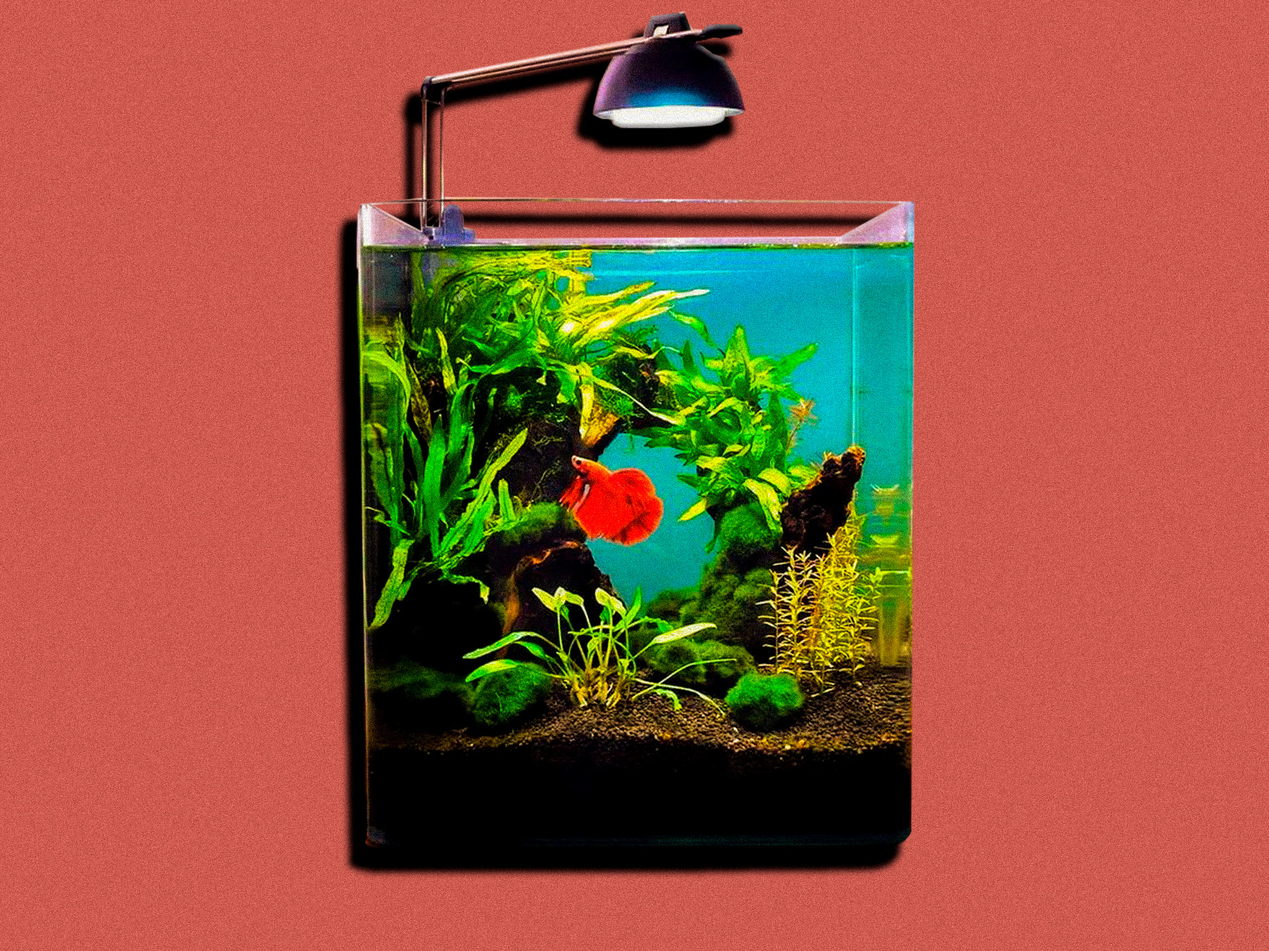
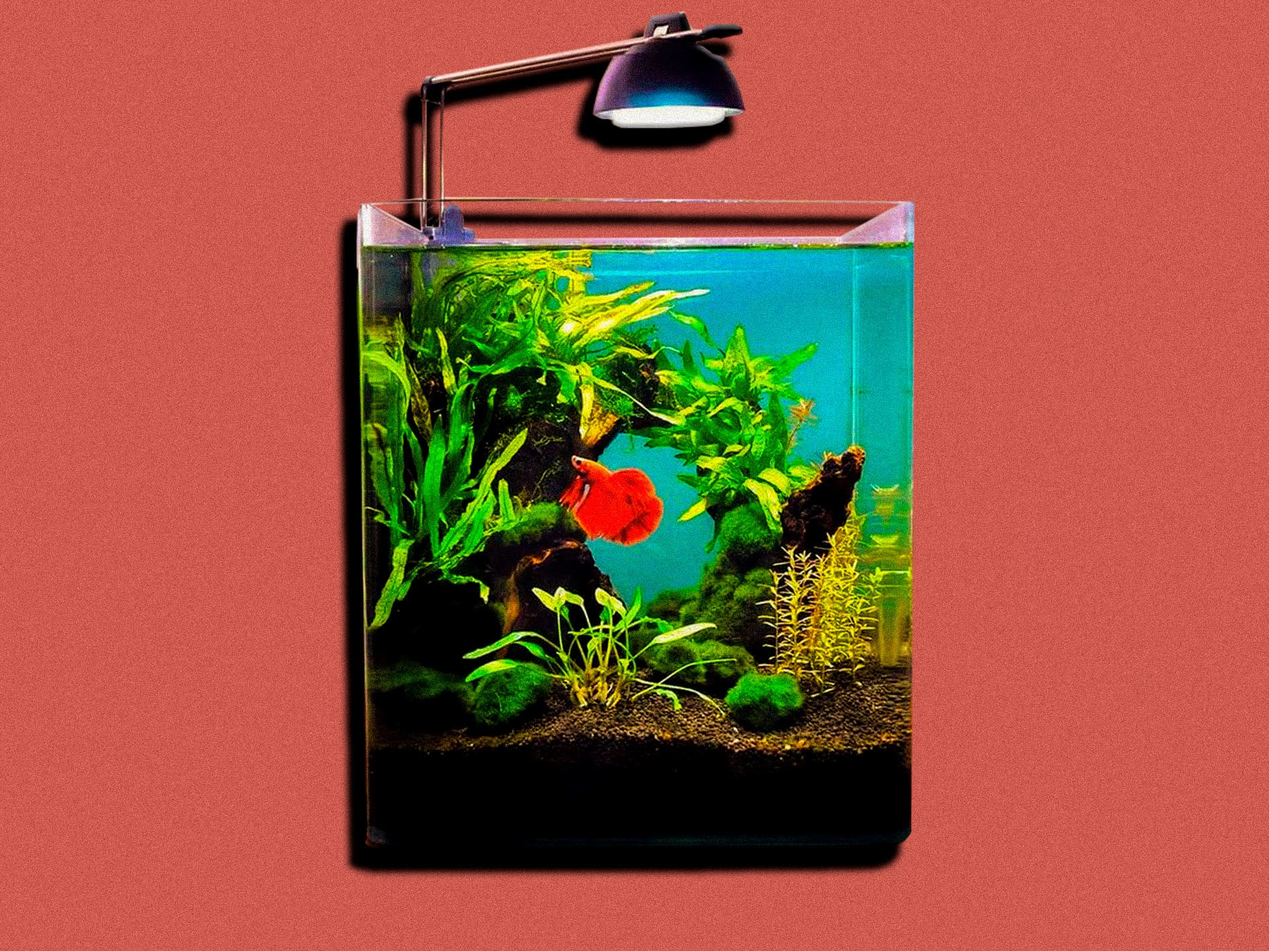
comprecion-final

diff --git a/pages/peces-de-agua-fria.html b/pages/peces-de-agua-fria.html
@@ -87,7 +87,7 @@
                 </h2>
 
                 <figure>
-                    <img src="../imagenes/pez-goldfish-wiki.jpg" alt="goldfish">
+                    <img src="../imagenes/pez-goldfish-wiki-otro-formato.webp" alt="goldfish">
                 </figure>
                
 
@@ -136,7 +136,7 @@
                 </h2>
 
                 <figure>
-                    <img src="../imagenes/carpa-koy-wiki.jpg" alt="carpa-koi">
+                    <img src="../imagenes/carpa-koy-wiki-otro-formato.webp" alt="carpa-koi">
                 </figure>
 
                 <p class="parametros">
@@ -174,7 +174,7 @@
                 </h2>
 
                 <figure>
-                    <img src="../imagenes/neon-chino-wiki.jpg" alt="neon-chino">
+                    <img src="../imagenes/neon-chino-wiki-otro-formato.webp" alt="neon-chino">
                 </figure>
 
                 <p class="parametros">
@@ -210,7 +210,7 @@
                 </h2>
 
                 <figure>
-                    <img src="../imagenes/plecostomus-wiki.jpg" alt="plecostomus">
+                    <img src="../imagenes/plecostomus-wiki-otro-formato.webp" alt="plecostomus">
                 </figure>
 
                 <p class="parametros">
@@ -246,7 +246,7 @@
                 </h2>
 
                 <figure>
-                    <img src="../imagenes/tetra-buenos-aires.jpg" alt="tetra-bunos-aires">
+                    <img src="../imagenes/tetra-buenos-aires-otro-formato.webp" alt="tetra-bunos-aires">
                 </figure>
 
                 <p class="parametros">
@@ -279,7 +279,7 @@
                 </h2>
 
                 <figure>
-                    <img src="../imagenes/pez-paraiso-wiki.jpg" alt="pez-paraiso">
+                    <img src="../imagenes/pez-paraiso-wiki-otro-formato.webp" alt="pez-paraiso">
                 </figure>
 
                 <p class="parametros">
@@ -311,7 +311,7 @@
                 </h2>
 
                 <figure>
-                    <img src="../imagenes/tiburon-chino-wiki.jpg" alt="tiburon-chino">
+                    <img src="../imagenes/tiburon-chino-wiki-otro-formato.webp" alt="tiburon-chino">
                 </figure>
 
                 

diff --git a/pages/acuarios.html b/pages/acuarios.html
@@ -70,7 +70,7 @@
                 </h2>
 
                 <figure>
-                    <img src="../imagenes/calentador-minimo.jpg" alt="calentador">
+                    <img src="../imagenes/calentador-minimo-otro-formato.webp" alt="calentador">
                 </figure>
 
                 <p class="calentador-acuario">
@@ -86,7 +86,7 @@
                 </h2>
 
                 <figure>
-                    <img src="../imagenes/filtro-acuarios.jpg" alt="filtro-acuarios">
+                    <img src="../imagenes/filtro-acuarios-otro-formato.webp" alt="filtro-acuarios">
                 </figure>
 
                 <p class="calentador-acuario">
@@ -105,7 +105,7 @@
 
 
             <figure>
-                <img src="../imagenes/acuario-malo.jpg" alt="acuario-malo">
+                <img src="../imagenes/acuario-malo-otro-formato.webp" alt="acuario-malo">
             </figure>
 
             <p class="acuarios-tipos">
@@ -125,7 +125,7 @@
 
 
             <figure>
-                <img src="../imagenes/acuario-lindo.jpg" alt="acuario-bueno">
+                <img src="../imagenes/acuario-lindo-otro-formato.webp" alt="acuario-bueno">
             </figure>
 
             <p class="acuarios-tipos">
@@ -146,7 +146,7 @@
 
 
             <figure>
-                <img src="../imagenes/acuario-holandes.jpg" alt="acuario-holandes">
+                <img src="../imagenes/acuario-holandes-otro-formato.webp" alt="acuario-holandes">
             </figure>
 
             <p class="acuarios-tipos">

diff --git a/pages/plantas.html b/pages/plantas.html
@@ -63,7 +63,7 @@
         <div class="plantas-acuario">
 
             <figure>
-                <img src="../imagenes/acuario-plantado.jpg" alt="acuario-plantado">
+                <img src="../imagenes/acuario-plantado-otro-formato.webp" alt="acuario-plantado">
             </figure>
 
             <p>
